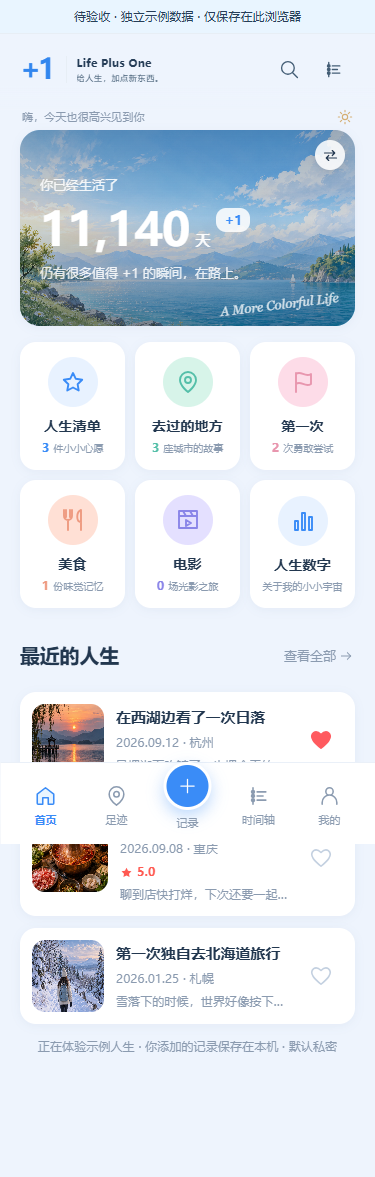
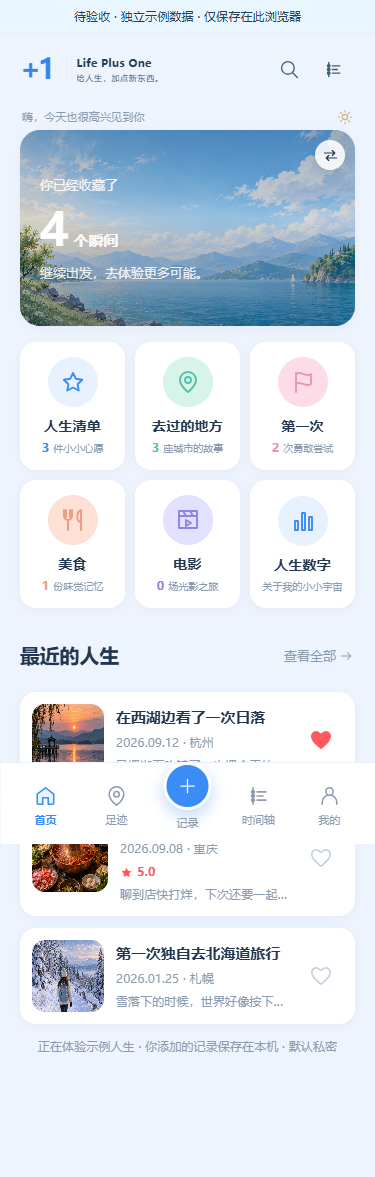
home hero: two cards tell two different stories; unify their typography

Changed region(s): [[0.1173, 0.1529, 0.6747, 0.2447], [0.5867, 0.2447, 0.9093, 0.2753]]

diff --git a/life.js b/life.js
@@ -68,21 +68,21 @@ const HOME_STYLE_KEY = 'life-plus-one-review-home-style';
 const readHomeStyle = () => { try { return localStorage.getItem(HOME_STYLE_KEY)==='classic'?'classic':'photo'; } catch { return 'photo'; } };
 let homeStyle = readHomeStyle();
 const swapLabel = style => style==='classic' ? '切换为照片版卡片' : '切换为简洁版卡片';
-/* 卡片文案：两种版本共用同一份内容，差别只在视觉。
- * 数据源是「你已经生活了 N 天」（codex 原版口径），只有连生日都没有时才退回收藏数量。 */
-function bannerCopy() {
- const days = state.birthday ? Math.floor((Date.parse(today())-Date.parse(state.birthday))/86400000)+1 : null;
- return {
-  label: days ? '你已经生活了' : '你已经收藏了',
-  count: (days || state.records.length).toLocaleString(),
-  unit: days ? '天' : '个瞬间',
-  note: days ? '仍有很多值得 +1 的瞬间，在路上。' : '继续出发，去体验更多可能。',
- };
+/* 卡片文案：两版各说一件事，故意不同 ——
+ * 照片版讲「收藏了多少个瞬间」，简洁版讲「你已经生活了 N 天」（codex 原版口径）。
+ * 只有文案不同，字体格式两版完全一致（见 prototype.css 的 .banner-copy 一组规则）。 */
+function bannerCopy(style) {
+ if (style === 'classic' && state.birthday) {
+  const days = Math.floor((Date.parse(today())-Date.parse(state.birthday))/86400000)+1;
+  return { label:'你已经生活了', count:days.toLocaleString(), unit:'天', note:'仍有很多值得 +1 的瞬间，在路上。', badge:true, caption:true };
+ }
+ // 照片版固定讲收藏数量；简洁版在没填生日时也退回这套，避免出现一片空白
+ return { label:'你已经收藏了', count:state.records.length.toLocaleString(), unit:'个瞬间', note:'继续出发，去体验更多可能。', badge:false, caption:false };
 }
 /* 一张卡（两种版本共用一个渲染函数，切换时只换这张卡，不动整页） */
 function bannerCard(style) {
- const t = bannerCopy();
- const body = `<div class="banner-copy"><span>${t.label}</span><div><strong>${t.count}</strong><span class="banner-unit">${t.unit}</span><em>+1</em></div><p>${t.note}</p></div><span class="banner-caption">A More Colorful Life</span>`;
+ const t = bannerCopy(style);
+ const body = `<div class="banner-copy"><span>${t.label}</span><div><strong>${t.count}</strong><span class="banner-unit">${t.unit}</span>${t.badge?'<em>+1</em>':''}</div><p>${t.note}</p></div>${t.caption?'<span class="banner-caption">A More Colorful Life</span>':''}`;
  return `<button class="life-banner${style==='classic'?' style-classic':''}" data-go="numbers">${body}</button>`;
 }
 const bannerSlide = style => `<div class="banner-slide">${bannerCard(style)}</div>`;

diff --git a/prototype.css b/prototype.css
@@ -213,6 +213,8 @@
 .life-banner:after {
   background: linear-gradient(180deg, rgba(23, 58, 96, .42), rgba(23, 58, 96, .18) 45%, rgba(18, 48, 84, .55));
 }
+/* 卡片文字：两种版本（照片版=收藏瞬间 / 简洁版=人生天数）共用这一套字体格式，
+ * 各版只允许覆盖颜色。改这里的字号会让两版失衡，verify-home-cards.cjs 会比对两版字号。 */
 .banner-copy { position: relative; z-index: 1; color: #fff; }
 .banner-copy > span { font: 500 13px/20px var(--font-ui); color: rgba(255, 255, 255, .88); }
 .banner-copy > div {
@@ -257,11 +259,12 @@
 .life-banner.style-classic { padding: 22px 20px; background: var(--blue-soft); }
 .life-banner.style-classic:before { background-position: center 61%; }
 .life-banner.style-classic:after { background: linear-gradient(90deg, var(--hero-wash-start), var(--hero-wash-mid) 62%, var(--hero-wash-end)); }
+/* 简洁版（人生天数卡）只换颜色，不换字号 —— 与照片版保持同一套字体格式 */
 .life-banner.style-classic .banner-copy { color: var(--pro-sub); }
-.life-banner.style-classic .banner-copy > span { font: 500 12px/18px var(--font-ui); color: var(--pro-sub); }
-.life-banner.style-classic .banner-copy > div { margin: 7px 0 10px; font: 500 12px/18px var(--font-ui); color: var(--pro-sub); }
-.life-banner.style-classic .banner-copy strong { font: 600 42px/50px var(--font-ui); letter-spacing: -.01em; color: var(--blue-deep); }
-.life-banner.style-classic .banner-copy p { font: 500 11px/17px var(--font-ui); color: var(--pro-sub); }
+.life-banner.style-classic .banner-copy > span { color: var(--pro-sub); }
+.life-banner.style-classic .banner-copy > div { color: var(--pro-sub); }
+.life-banner.style-classic .banner-copy strong { color: var(--blue-deep); }
+.life-banner.style-classic .banner-copy p { color: var(--pro-sub); }
 .life-banner.style-classic .banner-caption { color: #7d95ad; }
 
 /* ── 六宫格：彩色圆底图标 + codex 的说明文案 ────────── */

diff --git a/docs/PROTOTYPE_ALIGNMENT.md b/docs/PROTOTYPE_ALIGNMENT.md
@@ -164,3 +164,38 @@
   「大数字是带千分位的天数且 > 10000」、「两版内容逐字段相等（只换视觉不换文案）」，
   以及一条**迁移回归**：把老格式（生日为空）的示例数据写进 localStorage 后重载，
   断言卡片自动回到天数口径。
+
+## 第七轮修订（两版各说一件事 + 字体格式对齐）
+
+第六轮理解偏了：当时把两种卡片当成「同样内容、只换视觉」，于是两版都改成了人生天数。
+实际设计是**两版各说一件事**，且**字体格式必须一致**。
+
+| 项 | 第六轮（错） | 第七轮（对） |
+| --- | --- | --- |
+| 照片版 | 你已经生活了 N 天 | **你已经收藏了 N 个瞬间** + 继续出发，去体验更多可能。（不带 +1 徽标与落款） |
+| 简洁版 | 你已经生活了 N 天（与照片版内容相同） | **你已经生活了 N 天** + 仍有很多值得 +1 的瞬间，在路上。+ `+1` 徽标 + 落款 |
+| 数字字号 | 照片版 46px/700、简洁版 42px/600 | **两版都是 46px / 700** |
+| 首行字号 | 照片版 13px、简洁版 12px | **两版都是 13px/20px** |
+| 单位字号 | 两版都是 15px/22px/600 | 不变 |
+| 结语字号 | 照片版 13px/20px、简洁版 11px/17px | **两版都是 13px/20px** |
+
+实现要点：
+
+- `bannerCopy(style)` 现在**按版本给不同内容**：`classic` 且填了生日 → 天数口径；
+  其余（照片版、简洁版未填生日）→ 收藏瞬间口径。徽标与落款由 `badge` / `caption` 两个
+  布尔位控制，只有天数卡渲染它们。
+- **简洁版只允许覆盖颜色，不许覆盖字号**：`.life-banner.style-classic .banner-copy*` 一组规则
+  里原先带着 `font:` 简写（12px / 42px / 11px），会整体比照片版小一档，已全部删掉只留 `color`。
+  在 `.banner-copy` 基础块上方留了注释说明这条约定。
+- 字号来源本就是 `prototype.css`（最后加载）压过 `life.css` / `experience.css` 的
+  `42px / 12px / 11px` 一组值，所以只要不在这里继续写简写，两版就自动同档。
+
+自查脚本变化（`verify-home-cards.cjs`）：
+
+- 新增**字体格式指纹**：对「首行 / 大数字 / 单位 / 结语」四段分别取
+  `fontSize | lineHeight | fontWeight | fontStyle | fontFamily`，断言两版 `deepEqual`。
+  以后谁再给某一版单独调字号，这条会立刻红。
+- 断言反过来：照片版必须是 `你已经收藏了 / 个瞬间 / 继续出发，去体验更多可能。`
+  且**不带** +1 徽标与落款；简洁版必须是 `你已经生活了 / 天 / 仍有很多值得 +1 的瞬间，在路上。`
+  且**带**徽标与落款；两版的单位与大数字必须不同（证明内容确实是两套口径）。
+- 迁移回归那条改成先切到简洁版再断言（默认进的是照片版收藏卡）。
